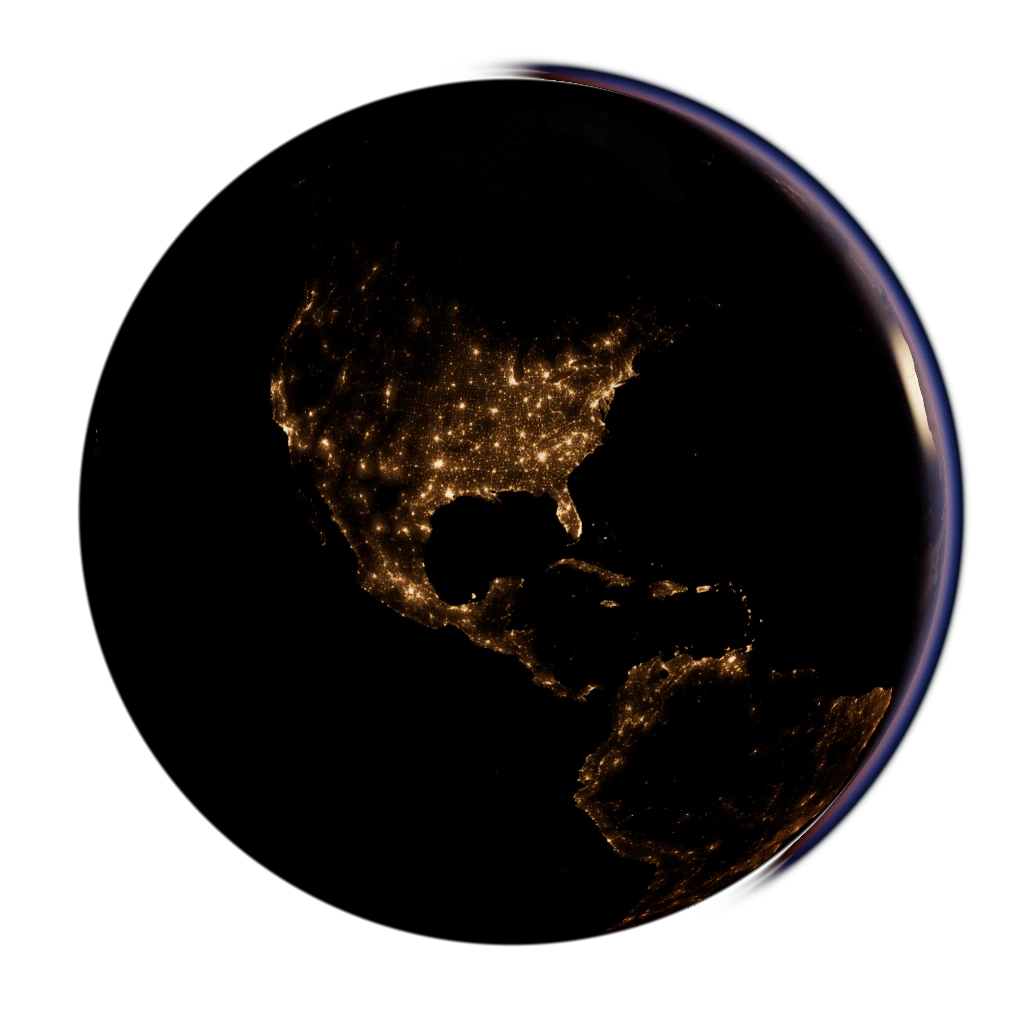
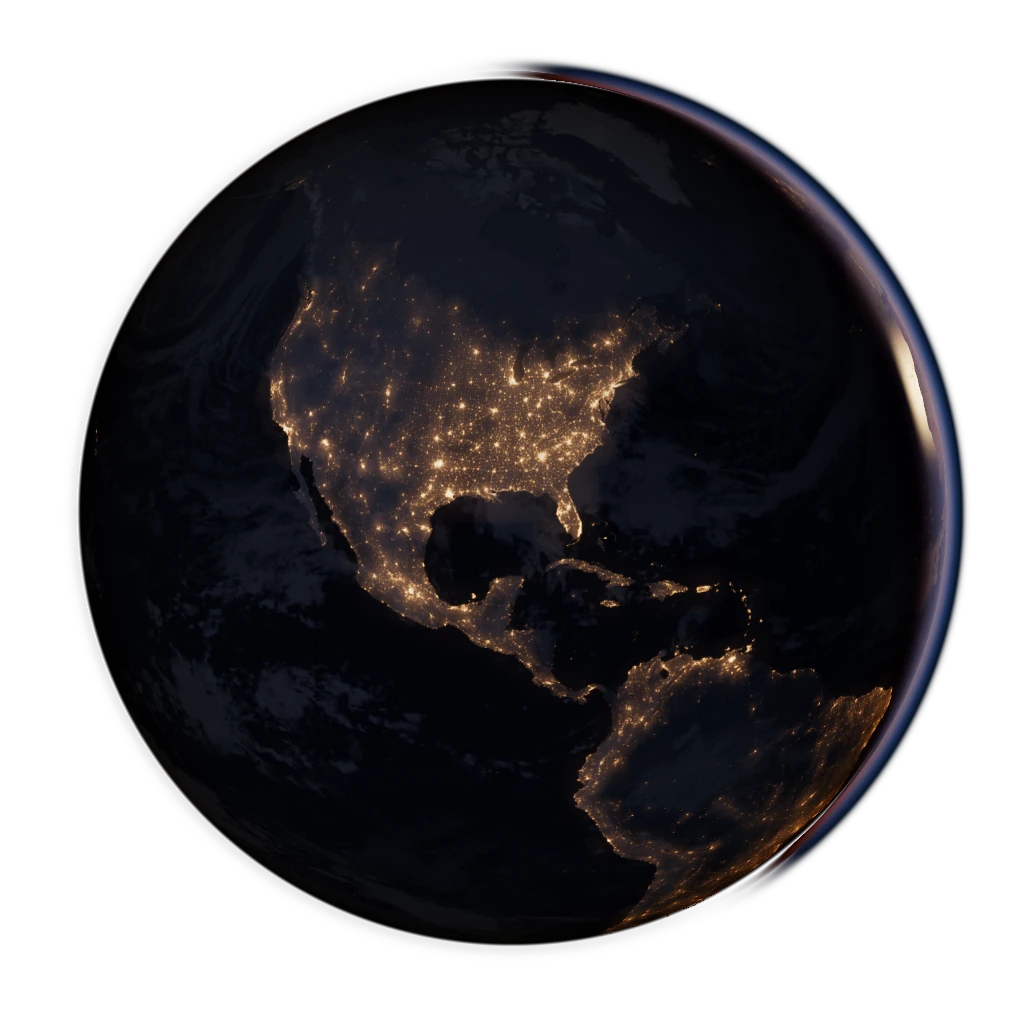
Light the night hemisphere and soften violet atmospheric scattering

diff --git a/src/earth/atmosphere.ts b/src/earth/atmosphere.ts
@@ -1,3 +1,4 @@
+import { moonDirectionGLSL } from './night-lighting'
 import { AerialPerspectiveEffect } from '@takram/three-atmosphere'
 import { Uniform, type Camera } from 'three'
 
@@ -16,17 +17,50 @@ export class EarthAtmosphere extends AerialPerspectiveEffect {
     // ray's tangent altitude into that range. A ray grazing the surface stays
     // fixed, and the original lookup supplies the colors throughout the sweep.
     const source = this.getFragmentShader()
-    const skyCall = /outputColor\.rgb = getSkyRadiance\(\s*vCameraPosition,/
-    if (!skyCall.test(source)) throw new Error('Unrecognized atmospheric sky shader')
+    const skyCall = /outputColor\.rgb = getSkyRadiance\(\s*vCameraPosition,([^)]+)\);/
+    const airSum = 'radiance = radiance + inscatter;'
+    if (!skyCall.test(source) || !source.includes(airSum)) throw new Error('Unrecognized atmospheric shader')
+    const alignment = 'dot(normalize(vCameraPosition), sunDirection)'
+    const gradedSource = source.replace(skyCall,
+      `vec3 skyOrigin = scaledSkyOrigin(vCameraPosition, rayDirection, ATMOSPHERE.bottom_radius);
+       outputColor.rgb = gradeAir(getSkyRadiance(skyOrigin,$1), ${alignment});
+       vec3 tangent = skyOrigin - rayDirection * dot(skyOrigin, rayDirection);
+       float radius = length(tangent);
+       if (radius <= ATMOSPHERE.top_radius) {
+         vec3 up = tangent / max(radius, 1.0);
+         float dusk = 1.0 - smoothstep(-0.20, 0.04, dot(up, sunDirection));
+         if (dusk > 0.0 && dot(up, nightMoonDirection) > -0.12) {
+           vec3 transmission;
+           vec3 lunar = GetSkyRadiance(skyOrigin, rayDirection, 0.0, nightMoonDirection, transmission);
+           outputColor.rgb += dusk * 0.036 * gradeAir(lunar, 1.0);
+         }
+       }`)
+      .replace(airSum, `
+        float horizon = 1.0 - smoothstep(0.0, 0.32,
+          dot(normalize(positionECEF), normalize(vCameraPosition - positionECEF)));
+        radiance += mix(inscatter, gradeAir(inscatter, ${alignment}), horizon);`)
     this.setFragmentShader(`
+      ${moonDirectionGLSL}
       uniform float limbScale;
+      // The wide limb makes the LUT's violet band conspicuous. Adjust only
+      // scattered sunlight, retaining its linear luminance and the warm sunset.
+      vec3 gradeAir(vec3 light, float alignment) {
+        light = max(light, vec3(0.0));
+        float peak = max(0.00001, max(light.r, light.b));
+        float violet = smoothstep(0.025, 0.35, (light.b - light.g) / peak)
+          * smoothstep(0.65, 0.98, light.b / peak);
+        vec3 blue = vec3(min(light.r, 0.54 * light.b + 0.19 * light.g),
+          max(light.g, 0.46 * light.b + 0.25 * light.r), light.b);
+        const vec3 luma = vec3(0.2126, 0.7152, 0.0722);
+        blue *= dot(light, luma) / max(dot(blue, luma), 0.000001);
+        return mix(light, blue, violet * mix(0.70, 1.0, smoothstep(0.0, 0.85, alignment)));
+      }
       vec3 scaledSkyOrigin(vec3 origin, vec3 direction, float groundRadius) {
         vec3 tangent = origin - direction * dot(origin, direction);
         float radius = length(tangent);
         float altitude = max(radius - groundRadius, 0.0);
         return origin - tangent * (altitude / max(radius, 1.0)) * (1.0 - 1.0 / limbScale);
       }
-    ` + source.replace(skyCall,
-      'outputColor.rgb = getSkyRadiance(scaledSkyOrigin(vCameraPosition, rayDirection, ATMOSPHERE.bottom_radius),'))
+    ` + gradedSource)
   }
 }

diff --git a/src/earth/clouds.ts b/src/earth/clouds.ts
@@ -1,3 +1,4 @@
+import { nightLightingGLSL } from './night-lighting'
 import {
   LinearMipmapLinearFilter, Mesh, RepeatWrapping, ShaderMaterial, TextureLoader, Vector3,
   type BufferGeometry, type Texture
@@ -14,12 +15,12 @@ export const cloudCoverageGLSL = `
 
 export type CloudSource = 'loading' | 'live' | 'snapshot' | 'unavailable'
 
-export function createClouds(geometry: BufferGeometry, sunDirection: Vector3, anisotropy: number,
+export function createClouds(geometry: BufferGeometry, sunDirection: Vector3, nightMap: { value: Texture | null }, anisotropy: number,
   invalidate: () => void, onSource: (source: CloudSource) => void) {
   const uniforms = {
     cloudMap: { value: null as Texture | null },
     cloudStrength: { value: 0 },
-    sunDirection: { value: sunDirection }
+    sunDirection: { value: sunDirection }, nightMap
   }
   const material = new ShaderMaterial({
     transparent: true, depthWrite: false, depthTest: false, uniforms,
@@ -32,8 +33,10 @@ export function createClouds(geometry: BufferGeometry, sunDirection: Vector3, an
       }`,
     fragmentShader: `
       uniform vec3 sunDirection;
+      uniform sampler2D nightMap;
       varying vec3 shellPosition;
       ${cloudCoverageGLSL}
+      ${nightLightingGLSL}
       void main() {
         vec3 n = normalize(shellPosition * vec3(1.0, 1.0, 1.0067395));
         vec3 east = vec3(-n.y, n.x, 0.0) / max(length(n.xy), 0.00001);
@@ -48,6 +51,10 @@ export function createClouds(geometry: BufferGeometry, sunDirection: Vector3, an
         vec3 tint = mix(vec3(1.0, 0.60, 0.35), vec3(1.0, 0.98, 0.95), daylight);
         vec3 color = vec3(0.0016, 0.0022, 0.0035) + tint *
           (0.055 * smoothstep(-0.09, 0.12, sun) + 0.90 * max(sun, 0.0));
+        // Cloud coverage modulates both moonlit tops and the light returned
+        // by low clouds over a city. Clear ocean receives no city contribution.
+        color += nightExposure(sun) * (vec3(0.032, 0.041, 0.073) * moonIllumination(n)
+          + vec3(0.16, 0.10, 0.060) * urbanHaze(nightMap, cloudUV(n)));
         gl_FragColor = vec4(color, cloudOpacity(density));
       }`
   })

diff --git a/src/earth/surface.ts b/src/earth/surface.ts
@@ -1,4 +1,5 @@
 import { Geodetic } from '@takram/three-geospatial'
+import { nightLightingGLSL } from './night-lighting'
 import { cityTwilightGLSL } from './city-points'
 import {
   BufferGeometry, Float32BufferAttribute, MathUtils, Points, ShaderMaterial,
@@ -41,6 +42,7 @@ export function createSurface() {
       uniform vec3 sunDirection;
       varying vec3 surfacePosition;
       ${cityTwilightGLSL}
+      ${nightLightingGLSL}
       void main() {
         // Geodetic normal = normalized position divided by squared ellipsoid radii.
         vec3 normal = normalize(surfacePosition * vec3(1.0, 1.0, 1.0067394967));
@@ -87,6 +89,14 @@ export function createSurface() {
         float core = smoothstep(0.5, 0.98, lights);
         vec3 lampColor = mix(vec3(1.0, 0.52, 0.17), vec3(1.25, 1.03, 0.75), core);
         float groundValue = dot(color, vec3(0.2126, 0.7152, 0.0722));
+        float nightWeight = nightExposure(solarElevation);
+        float landReflectance = 0.012 + 0.070 * sqrt(groundValue);
+        float moon = moonIllumination(terrainNormal) * mix(landReflectance, 0.004, material.b);
+        float airPath = 1.0 - max(dot(normal, view), 0.0);
+        vec3 air = vec3(0.0025, 0.0037, 0.0090) * (1.0 + 0.6 * airPath);
+        vec3 cityAir = vec3(0.052, 0.036, 0.026) * urbanHaze(night, geoUV) * (1.0 + airPath);
+        radiance += nightWeight * (moon * vec3(0.51, 0.65, 1.12) + air + cityAir);
+
         float nightRelief = pow(max(dot(normal, terrainNormal), 0.0), 3.0);
         float groundGlow = groundGlowStrength * spill * (0.30 + pow(groundValue, 0.67))
           * nightRelief * (1.0 - material.b);

diff --git a/src/earth/night-lighting.ts b/src/earth/night-lighting.ts
@@ -1,0 +1,18 @@
+// A fixed gibbous-moon direction in Earth coordinates makes the lighting
+// repeatable while the lab scrubs the sun. All terms are scene-linear.
+export const moonDirectionGLSL = 'const vec3 nightMoonDirection = vec3(-0.4891, -0.8469, 0.2079);'
+
+export const nightLightingGLSL = `
+  ${moonDirectionGLSL}
+  float nightExposure(float sunDot) {
+    return 1.0 - smoothstep(-0.16, 0.08, sunDot);
+  }
+  float moonIllumination(vec3 normal) {
+    return 0.24 + 0.76 * max(dot(normal, nightMoonDirection), 0.0);
+  }
+  float urbanHaze(sampler2D nightMap, vec2 uv) {
+    // Roughly a 300 km footprint at the equator, stable across imagery tiers.
+    float mip = max(0.0, log2(float(textureSize(nightMap, 0).x) / 128.0));
+    return sqrt(max(textureLod(nightMap, uv, mip).r - 0.003, 0.0));
+  }
+`

diff --git a/src/earth/index.ts b/src/earth/index.ts
@@ -69,7 +69,7 @@ export async function createEarth(canvas: HTMLCanvasElement, options: EarthOptio
   const textures = new Set<Texture>()
   const textureLoader = new TextureLoader()
   const anisotropy = Math.min(16, renderer.capabilities.getMaxAnisotropy())
-  const clouds = createClouds(globe.geometry, surface.uniforms.sunDirection.value, anisotropy, invalidate,
+  const clouds = createClouds(globe.geometry, surface.uniforms.sunDirection.value, surface.uniforms.night, anisotropy, invalidate,
     source => options.onCloudSource?.(source))
   scene.add(clouds.mesh)
   pins.renderOrder = 3

diff --git a/README.md b/README.md
@@ -10,7 +10,7 @@ Use Node.js 22 or newer. Run `npm ci` and `npm run dev`. The Earth controls are 
 
 The browser requests a small global day map, city lights, packed relief and ocean coverage, and locally hosted atmospheric scattering tables. After the first frame, day imagery refines to a six-face cube projected from a 21,600 × 10,800 source. The drawn globe size selects 1024- or 2048-pixel faces, with sharper night and relief maps for larger globes. Clouds use a separate 8.5 km shell lit by the shared sun. After the first frame the renderer loads a small bundled snapshot and requests Matt Eason’s latest 1024- or 2048-pixel cloud coverage. A visible tab checks again after three hours. The lab’s Clouds control applies to both globes. Contains modified EUMETSAT data. [Live Cloud Maps](https://github.com/matteason/live-cloud-maps)
 
-Wide atmosphere exaggerates the apparent altitude above the horizon sixfold using Takram’s scattering tables. Switching it off restores physical thickness. Surface haze still uses the physical model in both modes.
+Wide atmosphere exaggerates the apparent altitude above the horizon sixfold using Takram’s scattering tables. Switching it off restores physical thickness. The lab keeps an artistic moon fixed over the North Pacific during sun sweeps. Its light reveals terrain and cloud tops and scatters along the night horizon. A coarse mip of the night map supplies localized city skyglow in the air and clouds. A hue adjustment on scattered light reduces violet at the daylight horizon.
 
 The renderer redraws on demand. With WebGL unavailable, the two controls switch between matching static views.
 
